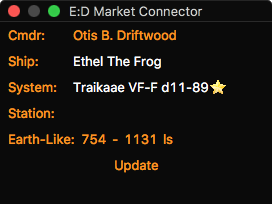
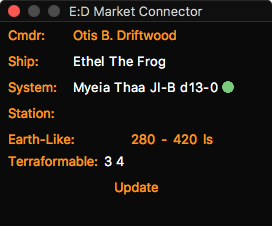
Option to look up system in EDSM

diff --git a/load.py b/load.py
@@ -3,9 +3,14 @@
 # Display the "habitable-zone" (i.e. the range of distances in which you might find an Earth-Like World)
 #
 
+from collections import defaultdict
+import requests
 import sys
+import threading
+import urllib2
 
 import Tkinter as tk
+from ttkHyperlinkLabel import HyperlinkLabel
 import myNotebook as nb
 
 if __debug__:
@@ -16,70 +21,90 @@ from l10n import Locale
 
 VERSION = '1.00'
 
-SETTING_DEFAULT = 2	# Earth-like
+SETTING_DEFAULT = 0x0002	# Earth-like
+SETTING_EDSM    = 0x1000
 SETTING_NONE    = 0xffff
 
 WORLDS = [
-    # Type     Black-body temp range
-    ('Metal-Rich',   0,  1103.0),
-    ('Earth-Like', 278.0, 227.0),
-    ('Water',      307.0, 156.0),
-    ('Ammonia',    193.0, 117.0),
+    # Type     Black-body temp range  EDSM description
+    ('Metal-Rich',   0,  1103.0, 'Metal-rich body'),
+    ('Earth-Like', 278.0, 227.0, 'Earth-like world'),
+    ('Water',      307.0, 156.0, 'Water world'),
+    ('Ammonia',    193.0, 117.0, 'Ammonia world'),
 ]
 
 LS = 300000000.0	# 1 ls in m (approx)
 
 this = sys.modules[__name__]	# For holding module globals
+this.frame = None
+this.worlds = []
+this.edsm_session = None
+this.edsm_data = None
+
+# Used during preferences
+this.settings = None
+this.edsm_setting = None
 
 
 def plugin_start():
+    # App isn't initialised at this point so can't do anything interesting
     return 'HabZone'
 
 def plugin_app(parent):
-    frame = tk.Frame(parent)
-    frame.columnconfigure(3, weight=1)
-    this.worlds = []
-    for (name, high, low) in WORLDS:
-        this.worlds.append((tk.Label(frame, text = name + ':'),
-                            tk.Label(frame),
-                            tk.Label(frame),
-                            tk.Label(frame),
-                            tk.Label(frame),
+    # Create and display widgets
+    this.frame = tk.Frame(parent)
+    this.frame.columnconfigure(3, weight=1)
+    this.frame.bind('<<HabZoneData>>', edsm_data)	# callback when EDSM data received
+    for (name, high, low, subType) in WORLDS:
+        this.worlds.append((tk.Label(this.frame, text = name + ':'),
+                            HyperlinkLabel(this.frame),	# edsm
+                            tk.Label(this.frame),	# near
+                            tk.Label(this.frame),	# dash
+                            tk.Label(this.frame),	# far
+                            tk.Label(this.frame),	# ls
                             ))
-    this.spacer = tk.Frame(frame)	# Main frame can't be empty or it doesn't resize
+    this.terraformable_label = tk.Label(this.frame, text = 'Terraformable:')
+    this.terraformable = HyperlinkLabel(this.frame)
+    this.spacer = tk.Frame(this.frame)	# Main frame can't be empty or it doesn't resize
     update_visibility()
-    return frame
+    return this.frame
 
-def plugin_prefs(parent):
+def plugin_prefs(parent, cmdr, is_beta):
     frame = nb.Frame(parent)
     nb.Label(frame, text = 'Display:').grid(row = 0, padx = 10, pady = (10,0), sticky=tk.W)
 
     setting = get_setting()
     this.settings = []
     row = 1
-    for (name, high, low) in WORLDS:
+    for (name, high, low, subType) in WORLDS:
         var = tk.IntVar(value = (setting & row) and 1)
         nb.Checkbutton(frame, text = name, variable = var).grid(row = row, padx = 10, pady = 2, sticky=tk.W)
         this.settings.append(var)
         row *= 2
 
+    nb.Label(frame, text = 'Elite Dangerous Star Map:').grid(padx = 10, pady = (10,0), sticky=tk.W)
+    this.edsm_setting = tk.IntVar(value = (setting & SETTING_EDSM) and 1)
+    nb.Checkbutton(frame, text = 'Look up system in EDSM database', variable = this.edsm_setting).grid(padx = 10, pady = 2, sticky=tk.W)
+
     nb.Label(frame, text = 'Version %s' % VERSION).grid(padx = 10, pady = 10, sticky=tk.W)
 
     return frame
 
-def prefs_changed():
+def prefs_changed(cmdr, is_beta):
     row = 1
     setting = 0
     for var in this.settings:
         setting += var.get() and row
         row *= 2
 
+    setting += this.edsm_setting.get() and SETTING_EDSM
     config.set('habzone', setting or SETTING_NONE)
     this.settings = None
+    this.edsm_setting = None
     update_visibility()
 
 
-def journal_entry(cmdr, system, station, entry, state):
+def journal_entry(cmdr, is_beta, system, station, entry, state):
 
     if entry['event'] == 'Scan':
         try:
@@ -87,8 +112,8 @@ def journal_entry(cmdr, system, station, entry, state):
                 r = float(entry['Radius'])
                 t = float(entry['SurfaceTemperature'])
                 for i in range(len(WORLDS)):
-                    (name, high, low) = WORLDS[i]
-                    (label, near, dash, far, ls) = this.worlds[i]
+                    (name, high, low, subType) = WORLDS[i]
+                    (label, edsm, near, dash, far, ls) = this.worlds[i]
                     far_dist = int(0.5 + dfort(r, t, low))
                     radius = int(0.5 + r / LS)
                     if far_dist <= radius:
@@ -105,23 +130,92 @@ def journal_entry(cmdr, system, station, entry, state):
                         far['text'] = Locale.stringFromNumber(far_dist)
                         ls['text'] = 'ls'
         except:
-            for (label, near, dash, far, ls) in this.worlds:
+            for (label, edsm, near, dash, far, ls) in this.worlds:
                 near['text'] = ''
                 dash['text'] = ''
                 far['text'] = ''
                 ls['text'] = '?'
 
     elif entry['event'] == 'FSDJump':
-        for (label, near, dash, far, ls) in this.worlds:
+        for (label, edsm, near, dash, far, ls) in this.worlds:
+            edsm['text'] = ''
+            edsm['url'] = ''
             near['text'] = ''
             dash['text'] = ''
             far['text'] = ''
             ls['text'] = ''
 
+    if entry['event'] in ['Location', 'FSDJump'] and get_setting() & SETTING_EDSM:
+        thread = threading.Thread(target = edsm_worker, name = 'EDSM worker', args = (entry['StarSystem'],))
+        thread.daemon = True
+        thread.start()
+
+
+def cmdr_data(data, is_beta):
+    # Manual Update
+    if get_setting() & SETTING_EDSM and not data['commander']['docked']:
+        thread = threading.Thread(target = edsm_worker, name = 'EDSM worker', args = (data['lastSystem']['name'],))
+        thread.daemon = True
+        thread.start()
+
 
 # Distance for target black-body temperature
+# From Jackie Silver's Hab-Zone Calculator https://forums.frontier.co.uk/showthread.php?p=5452081
 def dfort(r, t, target):
     return (((r ** 2) * (t ** 4) / (4 * (target ** 4))) ** 0.5) / LS
+
+
+# EDSM lookup
+def edsm_worker(systemName):
+
+    if not this.edsm_session:
+        this.edsm_session = requests.Session()
+
+    r = this.edsm_session.get('https://www.edsm.net/api-system-v1/bodies?systemName=%s' % urllib2.quote(systemName), timeout=10)
+    if r.status_code != requests.codes.ok:
+        this.edsm_data = None
+    else:
+        try:
+            this.edsm_data = r.json()
+        except:
+            this.edsm_data = None
+
+    # Tk is not thread-safe, so can't access widgets in this thread.
+    # event_generate() is the only safe way to poke the main thread from this thread.
+    this.frame.event_generate('<<HabZoneData>>', when='tail')
+
+
+# EDSM data received
+def edsm_data(event):
+
+    if this.edsm_data is None:
+        # error
+        for (label, edsm, near, dash, far, ls) in this.worlds:
+            edsm['text'] = '?'
+            edsm['url'] = None
+        this.terraformable['text'] = '?'
+        this.terraformable['url'] = None
+        return
+
+    # Collate
+    bodies = defaultdict(list)
+    for body in this.edsm_data.get('bodies', []):
+        if body.get('terraformingState') == 'Candidate for terraforming':
+            bodies['terraformable'].append(body['name'])
+        else:
+            bodies[body['subType']].append(body['name'])
+
+    # Display
+    systemName = this.edsm_data.get('name', '')
+    url = 'https://www.edsm.net/show-system?systemName=%s' % urllib2.quote(systemName)
+    for i in range(len(WORLDS)):
+        (name, high, low, subType) = WORLDS[i]
+        (label, edsm, near, dash, far, ls) = this.worlds[i]
+        edsm['text'] = ' '.join([x[len(systemName):].replace(' ', '') if x.startswith(systemName) else x for x in bodies[subType]])
+        edsm['url'] = url
+    this.terraformable['text'] = ' '.join([x[len(systemName):].replace(' ', '') if x.startswith(systemName) else x for x in bodies['terraformable']])
+    this.terraformable['url'] = url
+
 
 def get_setting():
     setting = config.getint('habzone')
@@ -135,20 +229,28 @@ def get_setting():
 def update_visibility():
     setting = get_setting()
     row = 1
-    for (label, near, dash, far, ls) in this.worlds:
+    for (label, edsm, near, dash, far, ls) in this.worlds:
         if setting & row:
             label.grid(row = row, column = 0, sticky=tk.W)
-            near.grid(row = row, column = 1, sticky=tk.E)
-            dash.grid(row = row, column = 2, sticky=tk.E)
-            far.grid(row = row, column = 3, sticky=tk.E)
-            ls.grid(row = row, column = 4, sticky=tk.W)
+            edsm.grid(row = row, column = 1, sticky=tk.W, padx = (0,10))
+            near.grid(row = row, column = 2, sticky=tk.E)
+            dash.grid(row = row, column = 3, sticky=tk.E)
+            far.grid(row = row, column = 4, sticky=tk.E)
+            ls.grid(row = row, column = 5, sticky=tk.W)
         else:
             label.grid_remove()
+            edsm.grid_remove()
             near.grid_remove()
             dash.grid_remove()
             far.grid_remove()
             ls.grid_remove()
         row *= 2
+    if setting & SETTING_EDSM:
+        this.terraformable_label.grid(row = row, column = 0, sticky=tk.W)
+        this.terraformable.grid(row = row, column = 1, sticky=tk.W)
+    else:
+        this.terraformable_label.grid_remove()
+        this.terraformable.grid_remove()
     if setting:
         this.spacer.grid_remove()
     else:

diff --git a/README.md b/README.md
@@ -1,10 +1,12 @@
 # Habitable Zone plugin for [EDMC](https://github.com/Marginal/EDMarketConnector/wiki)
 
-This plugin displays the "habitable-zone" (i.e. the range of distances in which you might find an Earth-Like World) when you scan the primary star in a system with a [Detailed Surface Scanner](http://elite-dangerous.wikia.com/wiki/Detailed_Surface_Scanner).
+This plugin helps explorers find high-value planets. It displays the "habitable-zone" (i.e. the range of distances in which you might find an Earth-Like World) when you scan the primary star in a system with a [Detailed Surface Scanner](http://elite-dangerous.wikia.com/wiki/Detailed_Surface_Scanner).
 
 ![Screenshot](img/screenie.png)
 
-Optionally, you can choose to display the ranges in which you might find Metal-Rich, Water and/or Ammonia Worlds.
+Optionally, you can choose to display the ranges in which you might find other high-value planets - Metal-Rich, Water and/or Ammonia Worlds.
+
+Optionally, you can choose to display the high-value planets known to [Elite Dangerous Star Map](https://www.edsm.net/).
 
 ## Installation
 
